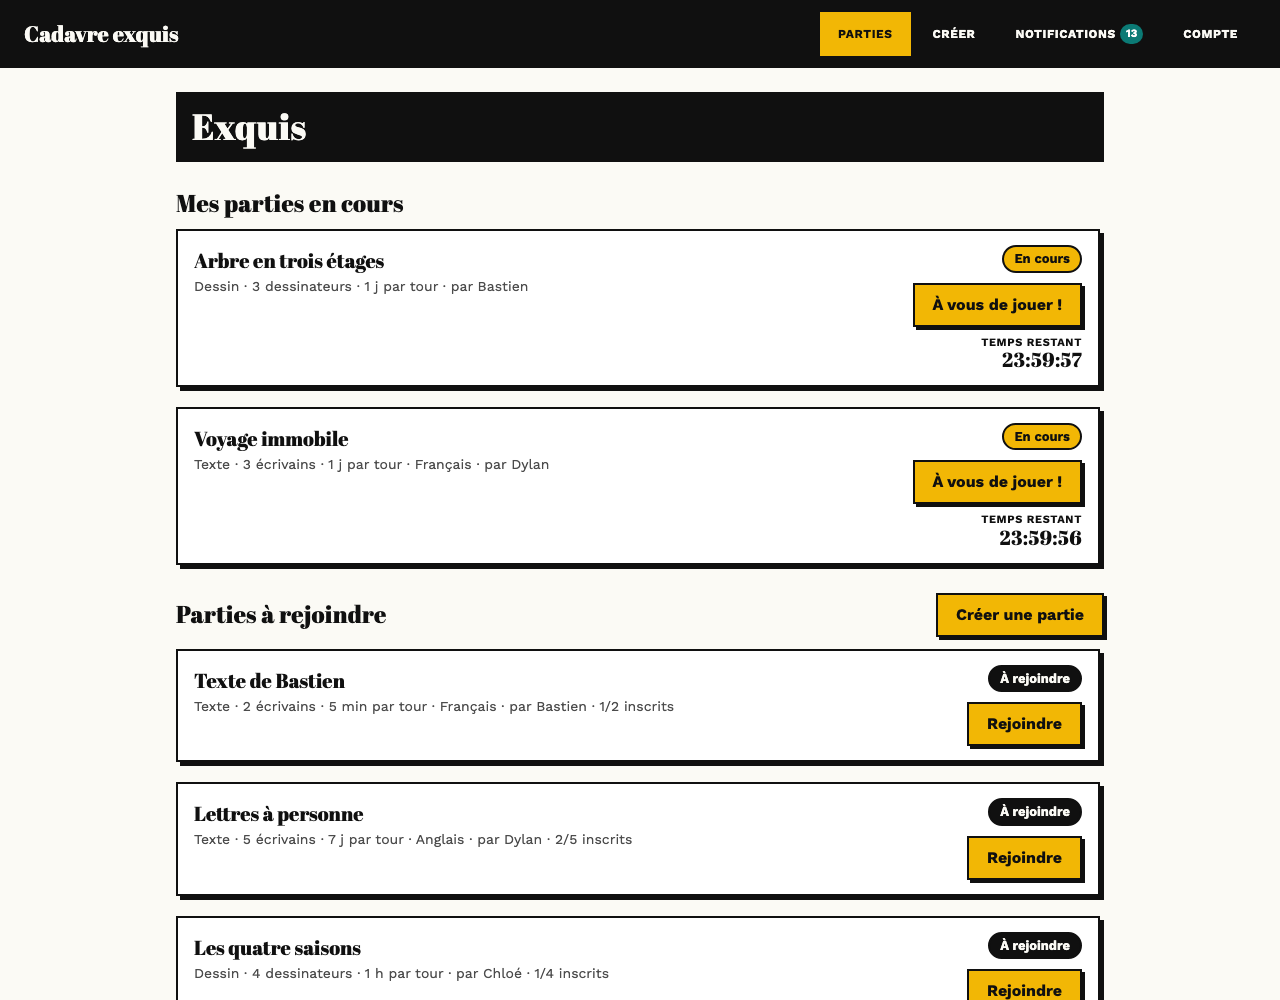
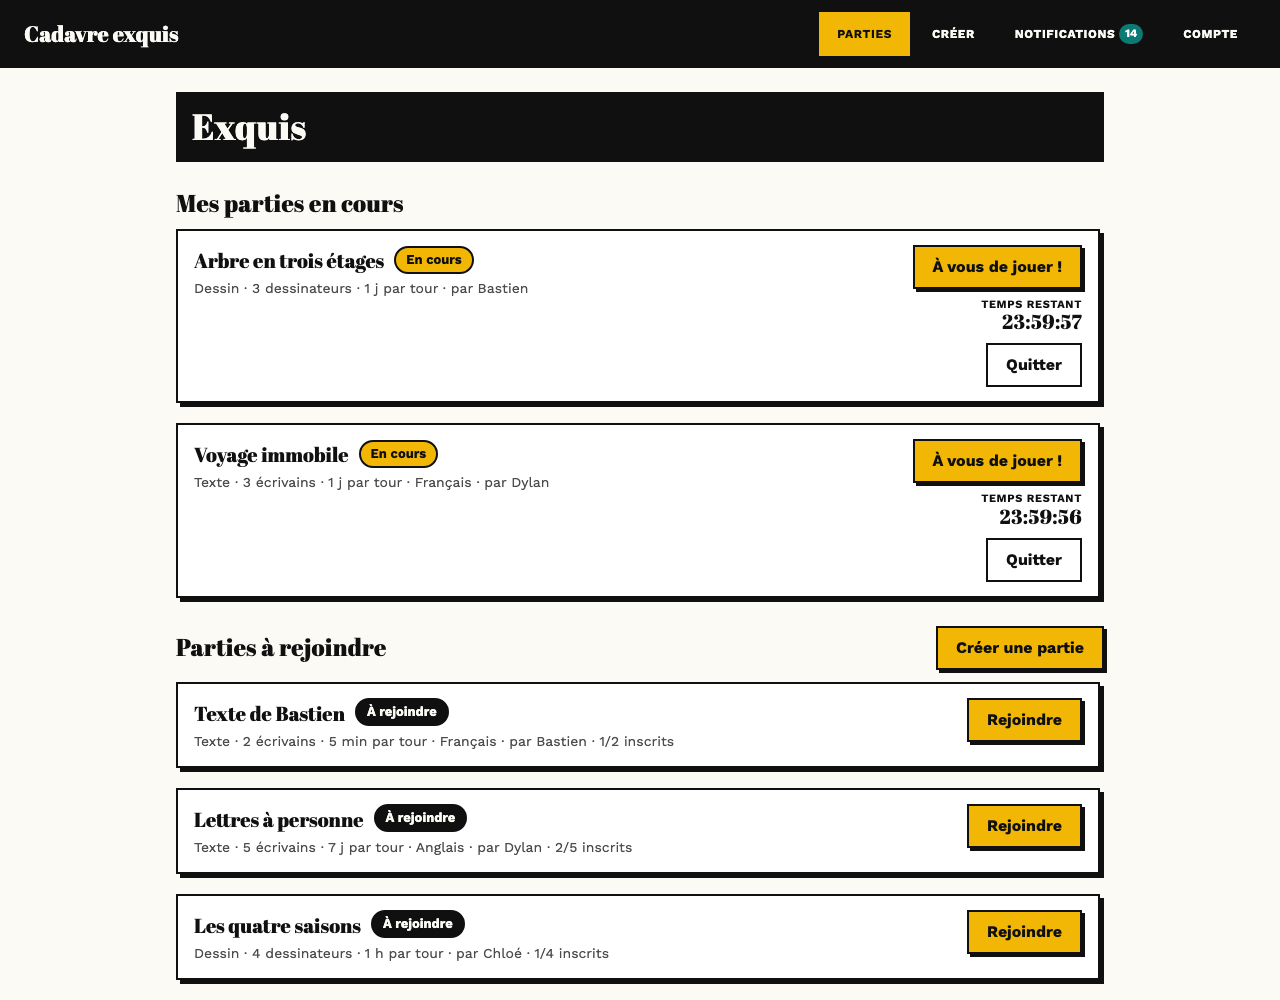
feat: cartes de parties sur smartphone, actions centrées côte à côte en bas

Changed region(s): [[0.125, 0.248, 0.875, 1.0], [0.1562, 0.248, 0.4062, 0.31], [0.6562, 0.031, 0.6875, 0.062]]

diff --git a/src/app/globals.css b/src/app/globals.css
@@ -224,6 +224,14 @@ a.game-title:hover { text-decoration:underline; }
 .card-call .btn, .card-call button { border-color:var(--fg); }
 .card-call .error { color:#fff; background:var(--danger); padding:2px 6px; }
 .game-action { margin-top:10px; }
+/* Smartphone : les actions passent en bas de la carte, centrées et côte à côte (le temps restant dessous). */
+@media (max-width: 600px) {
+  .game-card { flex-direction:column; align-items:stretch; }
+  .game-main { flex:none; }
+  .game-side { flex-direction:row; flex-wrap:wrap; justify-content:center; align-items:center; margin:0; padding-top:12px; border-top:2px solid var(--line); gap:10px 12px; }
+  .game-side .countdown.countdown-inline { order:3; flex-basis:100%; align-items:center; text-align:center; }
+  .game-side > .error { order:4; flex-basis:100%; text-align:center; }
+}
 .game-count { flex:none; text-align:right; }
 .count-num { display:block; padding-right:4px; font-family:var(--font-display-stack); font-size:34px; line-height:1; }
 .count-label { font-size:12px; color:var(--muted); text-transform:uppercase; letter-spacing:.06em; }
